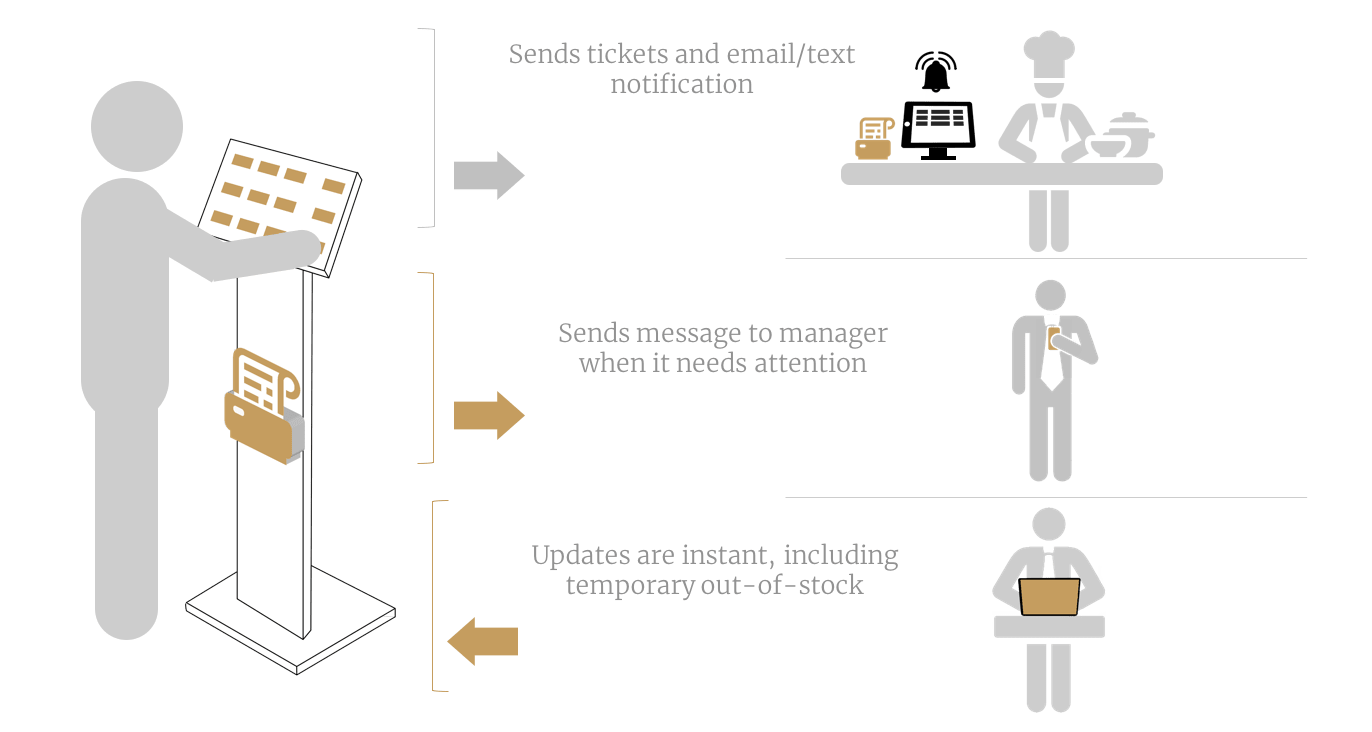
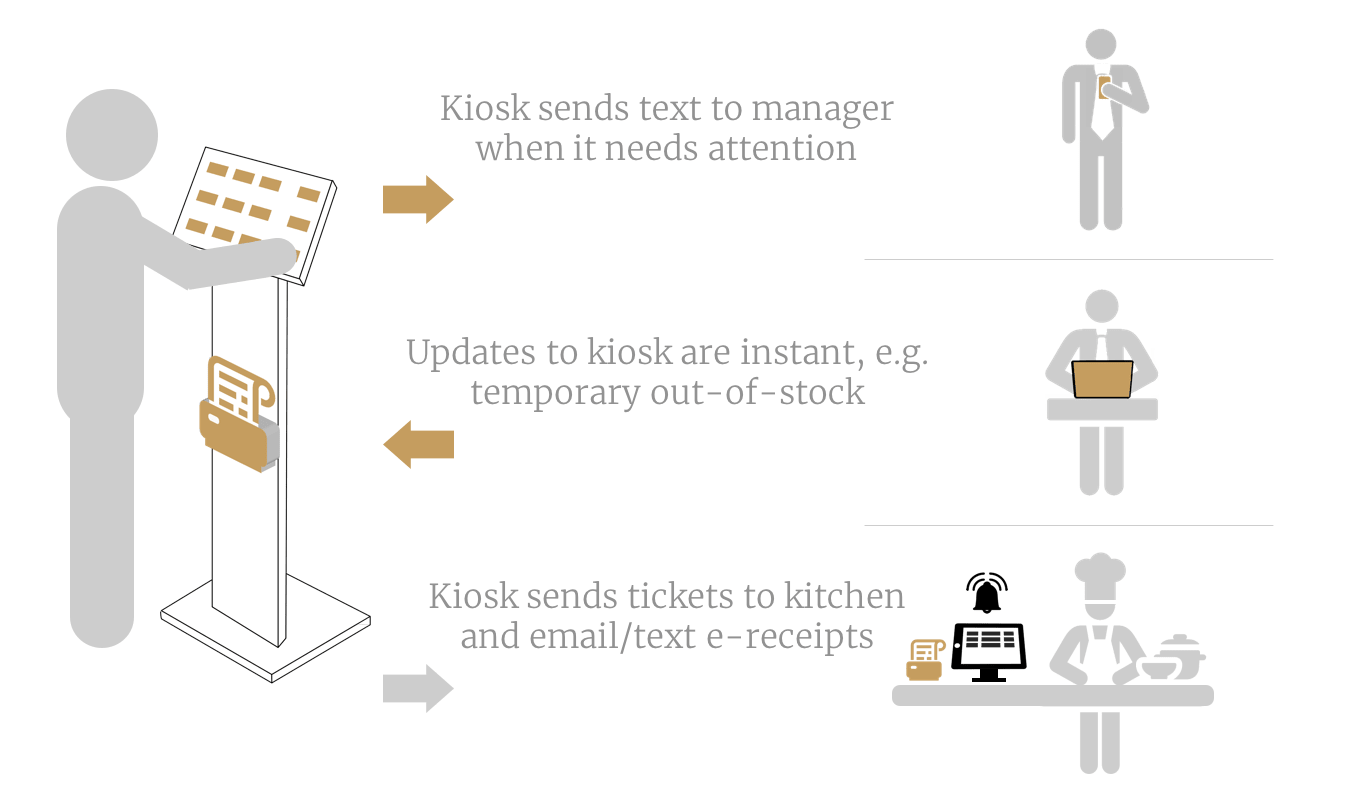
Update

diff --git a/app/app_sitelette/sitefiles/pages/content_index.html b/app/app_sitelette/sitefiles/pages/content_index.html
@@ -59,8 +59,10 @@
             </li>
             <li> And if Croissants are all sold-out, you can remotely hide Croissants on all your kiosks with a touch of a button, until you get a fresh supply, when you can turn them back on, just as easily.
             </li>
+            <!--
             <li> Kitchen tickets are printed uniformly, whether the order came from mobile, web, self-service or full service point of sale.
             </li>
+          -->
           </ul>
         </div>
       </div>
@@ -71,7 +73,7 @@
   <div class="container-fluid">
     <div class="row" style="padding-bottom:140px;">
       <div class="col-xs-12 col-sm-12 col-md-offset-1 col-md-10 col-lg-10 col-lg-offset-1">
-        <img src="sitefiles/images/landing/unifiedOrderTicketing.png" class="center-block img-responsive" </>
+        <img src="sitefiles/images/landing/true_standalone_kiosk.png" class="center-block img-responsive" </>
       </div>
     </div>
   </div>
